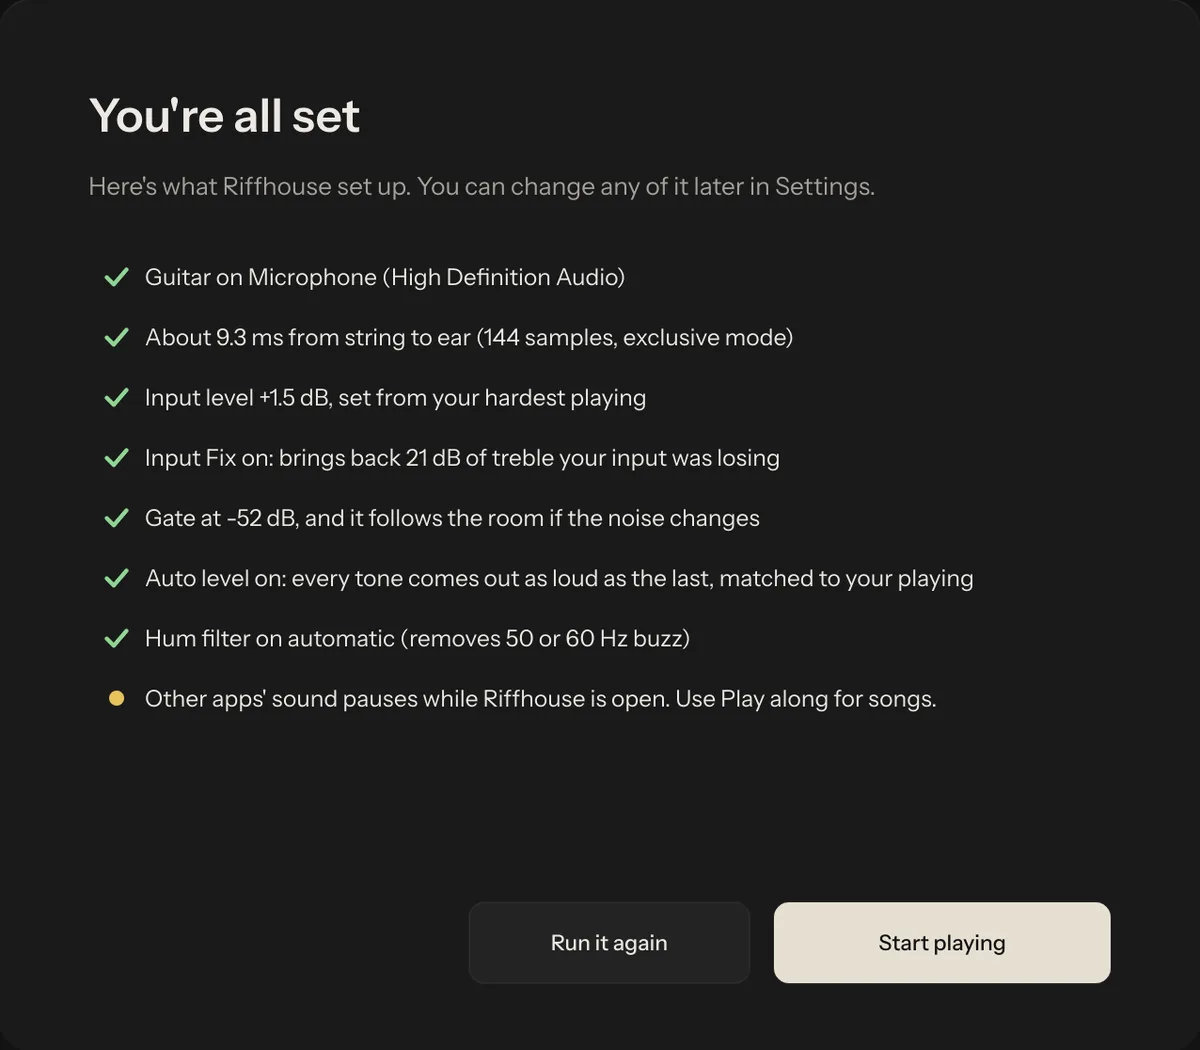
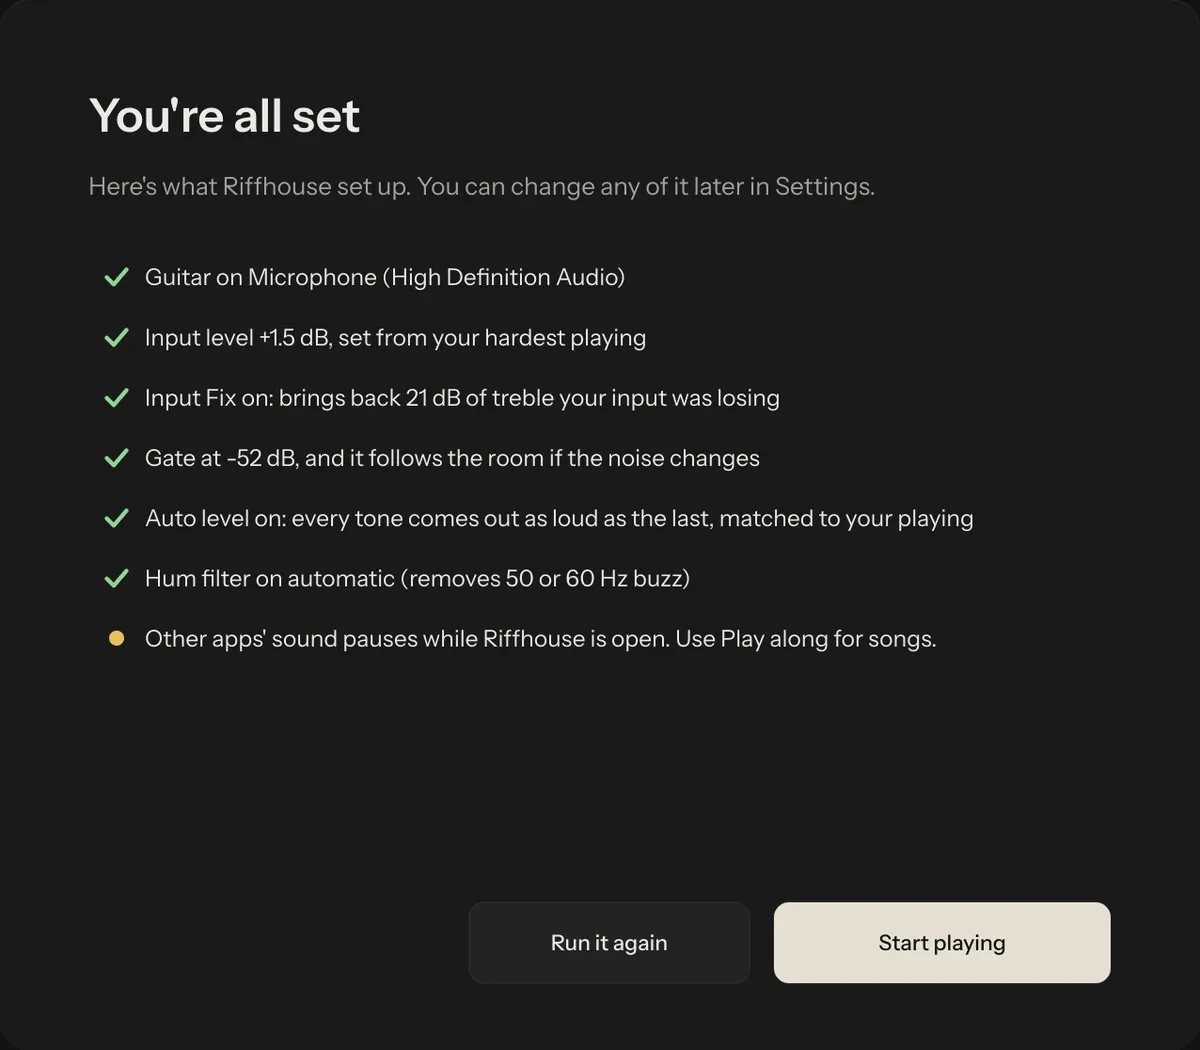
Website: 30 pedals, and no delay figure in the setup story
THROAT, the classic wah, makes 30 pedals. The setup list says the delay is
measured and set for you instead of quoting milliseconds, and the setup
screenshot drops the line with the figure.

diff --git a/site/index.html b/site/index.html
@@ -4,12 +4,12 @@
 <meta charset="utf-8">
 <meta name="viewport" content="width=device-width, initial-scale=1">
 <title>Free guitar amp and pedalboard for Windows | Riffhouse</title>
-<meta name="description" content="Riffhouse is a free, open-source guitar amp and pedalboard for Windows. Plug into the mic jack, strum for twenty seconds and play. 11 amps, 29 pedals, 189 tones.">
+<meta name="description" content="Riffhouse is a free, open-source guitar amp and pedalboard for Windows. Plug into the mic jack, strum for twenty seconds and play. 11 amps, 30 pedals, 189 tones.">
 <link rel="canonical" href="https://natikchhabra.github.io/riffhouse/">
 <meta name="theme-color" content="#f08a1c">
 <meta property="og:type" content="website">
 <meta property="og:title" content="Riffhouse: music should be free">
-<meta property="og:description" content="A free guitar amp and pedalboard for Windows. Plug into the mic jack and play. 11 amps, 29 pedals, 189 tones.">
+<meta property="og:description" content="A free guitar amp and pedalboard for Windows. Plug into the mic jack and play. 11 amps, 30 pedals, 189 tones.">
 <meta property="og:url" content="https://natikchhabra.github.io/riffhouse/">
 <meta property="og:image" content="https://natikchhabra.github.io/riffhouse/img/og.jpg">
 <meta property="og:image:width" content="1200">
@@ -103,12 +103,12 @@
       <figcaption><span class="key key-fixed">With Input Fix</span> <span class="key key-jack">Mic jack alone</span> <span class="curve-note">Drawn from the filter Riffhouse runs, at 21 dB.</span></figcaption>
     </figure>
     <figure class="shot jack-shot" data-reveal="open">
-      <img src="img/app/setup-done-1200.webp" width="1200" height="1050" loading="lazy" decoding="async" alt="The end of setup in Riffhouse: guitar found on the microphone input, about 9 ms from string to ear, Input Fix bringing back 21 dB of treble, gate, auto level and hum filter set.">
+      <img src="img/app/setup-done-1200.webp" width="1200" height="1050" loading="lazy" decoding="async" alt="The end of setup in Riffhouse: guitar found on the microphone input, Input Fix bringing back 21 dB of treble, gate, auto level and hum filter set.">
       <figcaption>What setup found on a laptop mic jack.</figcaption>
     </figure>
     <ul class="found">
       <li>Guitar on Microphone</li>
-      <li>About 9.3 ms from string to ear</li>
+      <li>Delay measured and set for you</li>
       <li>Input Fix on: 21 dB of treble back</li>
       <li>Gate at -52 dB, following the room</li>
       <li>Auto level on</li>
@@ -163,7 +163,7 @@
 
 <section class="gear band-bone" id="gear" aria-labelledby="h-gear">
   <div class="wrap sec-head" data-reveal="rise">
-    <h2 id="h-gear">29 pedals, 11 amps</h2>
+    <h2 id="h-gear">30 pedals, 11 amps</h2>
     <p class="lead">Every pedal, amp and cabinet is an original design with its own sound.</p>
   </div>
   <div class="rail wrap">
